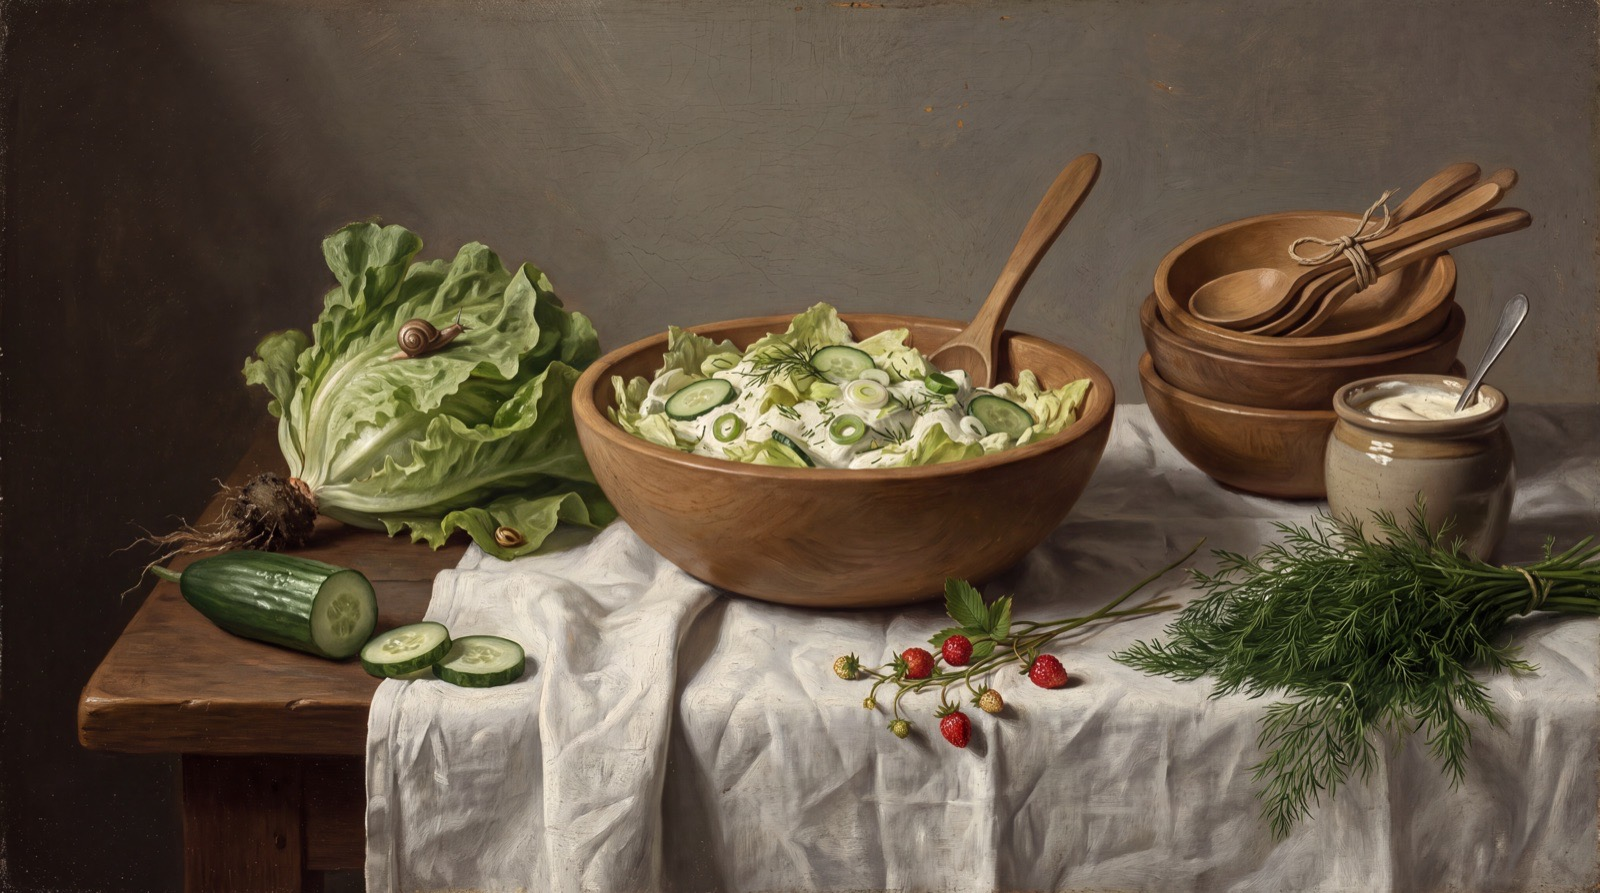
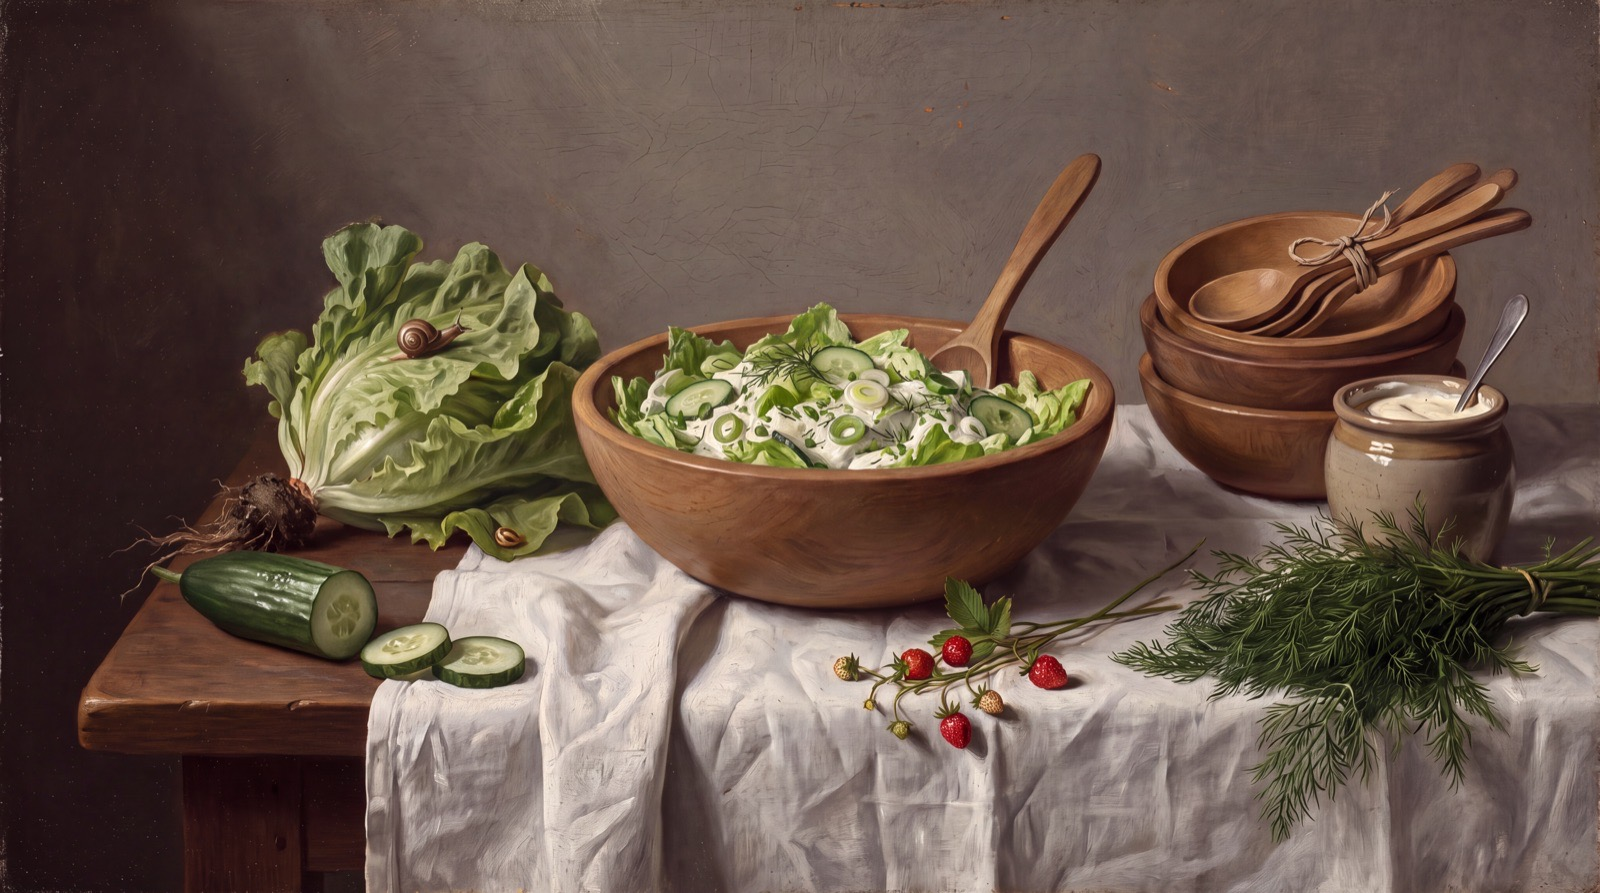
July: revised painting (clear leaf salad with gräddfil)

diff --git a/public/julijs/index.html b/public/julijs/index.html
@@ -13,7 +13,7 @@
 <meta property="og:description" content="Laine Lasmane Wikmark dzīvo Tēbijā (Täby), bet viņas ģimenes saknes meklējamas gan Apriķu pagastā Kurzemē, gan Siguldas laukos, gan Ukrainā. Laines…">
 <meta property="og:type" content="article">
 <meta property="og:url" content="https://zlk2027.latviesi.se/julijs/">
-<meta property="og:image" content="https://zlk2027.latviesi.se/img/julijs.jpg?v=f549f538">
+<meta property="og:image" content="https://zlk2027.latviesi.se/img/julijs.jpg?v=8e9dae5c">
 <meta name="theme-color" content="#fdfbf2">
 <link rel="icon" href="/favicon.svg" type="image/svg+xml">
 <link rel="preconnect" href="https://fonts.googleapis.com">
@@ -37,7 +37,7 @@
     <p class="year">2027</p>
     <p class="month">Jūlijs</p>
   </header>
-  <figure class="visual"><img src="/img/julijs.jpg?v=f549f538" srcset="/img/julijs-800.jpg?v=1aaf8123 800w, /img/julijs.jpg?v=f549f538 1600w" sizes="(min-width: 1200px) 1120px, 100vw" width="1600" height="893" alt="Skrubas sentimentālie latviešu lapu salāti" fetchpriority="high"></figure>
+  <figure class="visual"><img src="/img/julijs.jpg?v=8e9dae5c" srcset="/img/julijs-800.jpg?v=932f06b8 800w, /img/julijs.jpg?v=8e9dae5c 1600w" sizes="(min-width: 1200px) 1120px, 100vw" width="1600" height="893" alt="Skrubas sentimentālie latviešu lapu salāti" fetchpriority="high"></figure>
   <section class="band">
     <div class="col col-1">
       <h1 class="recipe-title">Skrubas sentimentālie latviešu lapu salāti</h1>

diff --git a/public/sv/julijs/index.html b/public/sv/julijs/index.html
@@ -13,7 +13,7 @@
 <meta property="og:description" content="Laine Lasmane Wikmark bor i Täby, men hennes familjs rötter finns både i Apriķi socken i Kurland, på landsbygden kring Sigulda och i Ukraina. Receptet Laine…">
 <meta property="og:type" content="article">
 <meta property="og:url" content="https://zlk2027.latviesi.se/sv/julijs/">
-<meta property="og:image" content="https://zlk2027.latviesi.se/img/julijs.jpg?v=f549f538">
+<meta property="og:image" content="https://zlk2027.latviesi.se/img/julijs.jpg?v=8e9dae5c">
 <meta name="theme-color" content="#fdfbf2">
 <link rel="icon" href="/favicon.svg" type="image/svg+xml">
 <link rel="preconnect" href="https://fonts.googleapis.com">
@@ -37,7 +37,7 @@
     <p class="year">2027</p>
     <p class="month">Juli</p>
   </header>
-  <figure class="visual"><img src="/img/julijs.jpg?v=f549f538" srcset="/img/julijs-800.jpg?v=1aaf8123 800w, /img/julijs.jpg?v=f549f538 1600w" sizes="(min-width: 1200px) 1120px, 100vw" width="1600" height="893" alt="Skrubbas sentimentala lettiska bladsallad" fetchpriority="high"></figure>
+  <figure class="visual"><img src="/img/julijs.jpg?v=8e9dae5c" srcset="/img/julijs-800.jpg?v=932f06b8 800w, /img/julijs.jpg?v=8e9dae5c 1600w" sizes="(min-width: 1200px) 1120px, 100vw" width="1600" height="893" alt="Skrubbas sentimentala lettiska bladsallad" fetchpriority="high"></figure>
   <section class="band">
     <div class="col col-1">
       <h1 class="recipe-title">Skrubbas sentimentala lettiska bladsallad</h1>

diff --git a/public/en/julijs/index.html b/public/en/julijs/index.html
@@ -13,7 +13,7 @@
 <meta property="og:description" content="Laine Lasmane Wikmark lives in Täby, but her family's roots are in Apriķi parish in Courland, in the countryside around Sigulda and in Ukraine. The recipe…">
 <meta property="og:type" content="article">
 <meta property="og:url" content="https://zlk2027.latviesi.se/en/julijs/">
-<meta property="og:image" content="https://zlk2027.latviesi.se/img/julijs.jpg?v=f549f538">
+<meta property="og:image" content="https://zlk2027.latviesi.se/img/julijs.jpg?v=8e9dae5c">
 <meta name="theme-color" content="#fdfbf2">
 <link rel="icon" href="/favicon.svg" type="image/svg+xml">
 <link rel="preconnect" href="https://fonts.googleapis.com">
@@ -37,7 +37,7 @@
     <p class="year">2027</p>
     <p class="month">July</p>
   </header>
-  <figure class="visual"><img src="/img/julijs.jpg?v=f549f538" srcset="/img/julijs-800.jpg?v=1aaf8123 800w, /img/julijs.jpg?v=f549f538 1600w" sizes="(min-width: 1200px) 1120px, 100vw" width="1600" height="893" alt="Skrubba's sentimental Latvian green salad" fetchpriority="high"></figure>
+  <figure class="visual"><img src="/img/julijs.jpg?v=8e9dae5c" srcset="/img/julijs-800.jpg?v=932f06b8 800w, /img/julijs.jpg?v=8e9dae5c 1600w" sizes="(min-width: 1200px) 1120px, 100vw" width="1600" height="893" alt="Skrubba's sentimental Latvian green salad" fetchpriority="high"></figure>
   <section class="band">
     <div class="col col-1">
       <h1 class="recipe-title">Skrubba's sentimental Latvian green salad</h1>

diff --git a/public/index.html b/public/index.html
@@ -76,7 +76,7 @@
   <p class="credit">Šarlote Cērps, Stokholma</p>
 </a>
 <a class="card" href="/julijs/">
-  <figure class="visual"><img src="/img/julijs.jpg?v=f549f538" srcset="/img/julijs-800.jpg?v=1aaf8123 800w, /img/julijs.jpg?v=f549f538 1600w" sizes="(min-width: 1000px) 360px, (min-width: 560px) 50vw, 100vw" width="1600" height="893" alt="Skrubas sentimentālie latviešu lapu salāti" loading="lazy"></figure>
+  <figure class="visual"><img src="/img/julijs.jpg?v=8e9dae5c" srcset="/img/julijs-800.jpg?v=932f06b8 800w, /img/julijs.jpg?v=8e9dae5c 1600w" sizes="(min-width: 1000px) 360px, (min-width: 560px) 50vw, 100vw" width="1600" height="893" alt="Skrubas sentimentālie latviešu lapu salāti" loading="lazy"></figure>
   <p class="month-line">Jūlijs</p>
   <h2 class="recipe-title">Skrubas sentimentālie latviešu lapu salāti</h2>
   <p class="credit">Laine Lasmane Wikmark, Tēbija</p>

diff --git a/public/en/index.html b/public/en/index.html
@@ -76,7 +76,7 @@
   <p class="credit">Šarlote Cērps, Stockholm</p>
 </a>
 <a class="card" href="/en/julijs/">
-  <figure class="visual"><img src="/img/julijs.jpg?v=f549f538" srcset="/img/julijs-800.jpg?v=1aaf8123 800w, /img/julijs.jpg?v=f549f538 1600w" sizes="(min-width: 1000px) 360px, (min-width: 560px) 50vw, 100vw" width="1600" height="893" alt="Skrubba's sentimental Latvian green salad" loading="lazy"></figure>
+  <figure class="visual"><img src="/img/julijs.jpg?v=8e9dae5c" srcset="/img/julijs-800.jpg?v=932f06b8 800w, /img/julijs.jpg?v=8e9dae5c 1600w" sizes="(min-width: 1000px) 360px, (min-width: 560px) 50vw, 100vw" width="1600" height="893" alt="Skrubba's sentimental Latvian green salad" loading="lazy"></figure>
   <p class="month-line">July</p>
   <h2 class="recipe-title">Skrubba's sentimental Latvian green salad</h2>
   <p class="credit">Laine Lasmane Wikmark, Täby</p>

diff --git a/public/sv/index.html b/public/sv/index.html
@@ -76,7 +76,7 @@
   <p class="credit">Šarlote Cērps, Stockholm</p>
 </a>
 <a class="card" href="/sv/julijs/">
-  <figure class="visual"><img src="/img/julijs.jpg?v=f549f538" srcset="/img/julijs-800.jpg?v=1aaf8123 800w, /img/julijs.jpg?v=f549f538 1600w" sizes="(min-width: 1000px) 360px, (min-width: 560px) 50vw, 100vw" width="1600" height="893" alt="Skrubbas sentimentala lettiska bladsallad" loading="lazy"></figure>
+  <figure class="visual"><img src="/img/julijs.jpg?v=8e9dae5c" srcset="/img/julijs-800.jpg?v=932f06b8 800w, /img/julijs.jpg?v=8e9dae5c 1600w" sizes="(min-width: 1000px) 360px, (min-width: 560px) 50vw, 100vw" width="1600" height="893" alt="Skrubbas sentimentala lettiska bladsallad" loading="lazy"></figure>
   <p class="month-line">Juli</p>
   <h2 class="recipe-title">Skrubbas sentimentala lettiska bladsallad</h2>
   <p class="credit">Laine Lasmane Wikmark, Täby</p>
